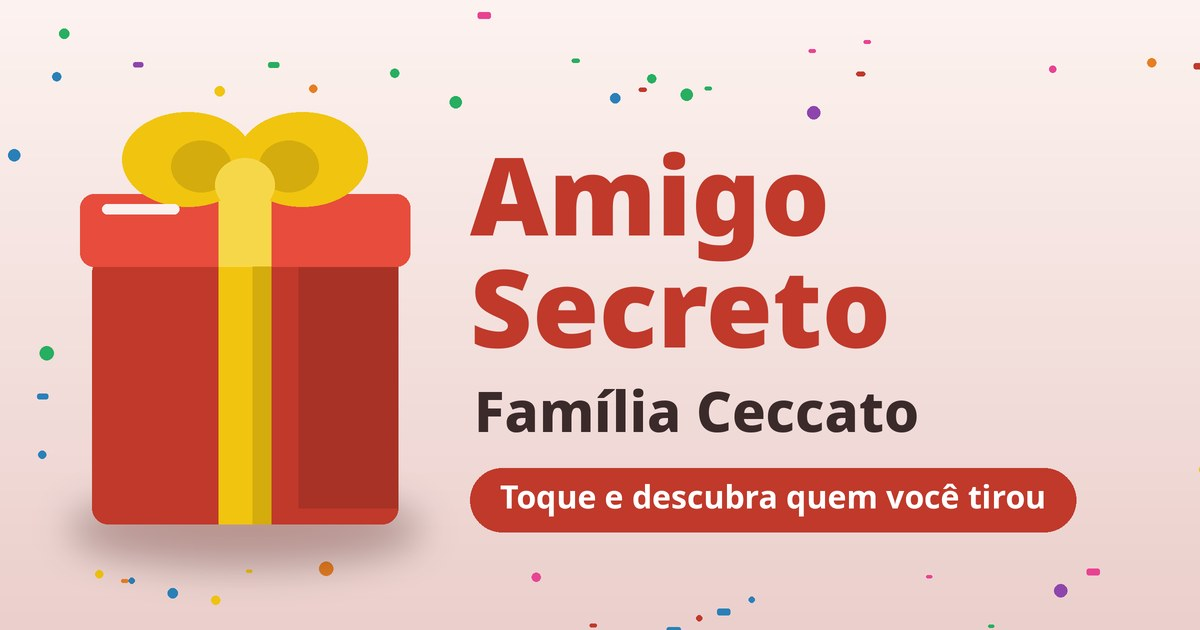
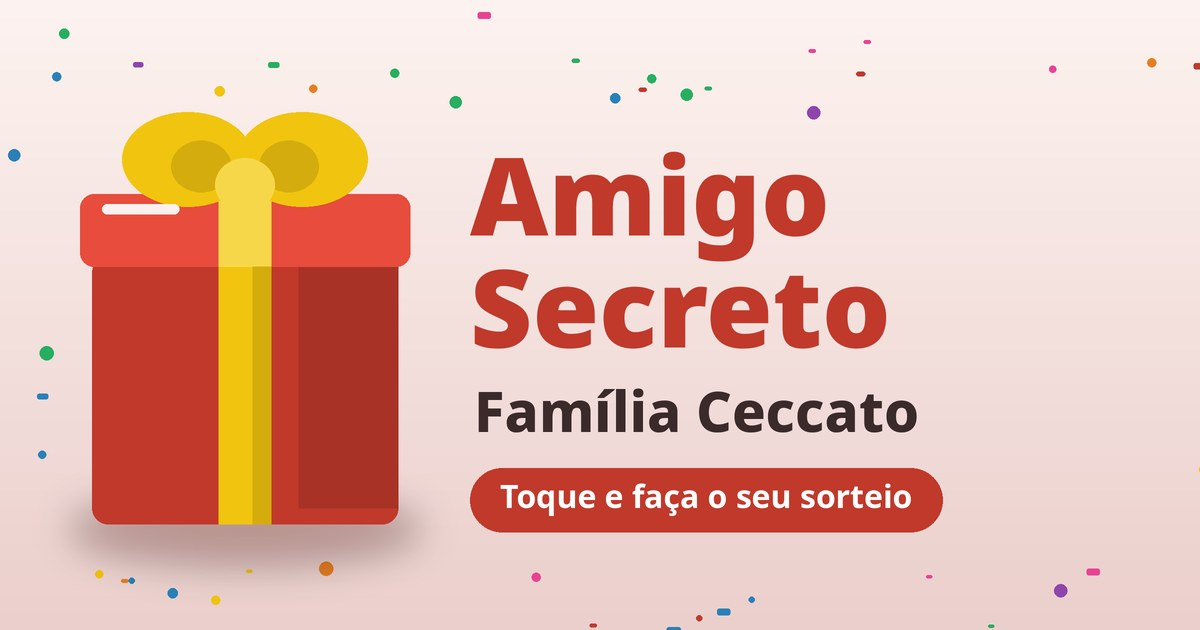
Prévia do link convida a fazer o sorteio

Changed region(s): [[0.4317, 0.7238, 0.8942, 0.8444]]

diff --git a/reveal.html b/reveal.html
@@ -11,7 +11,7 @@
 <meta property="og:type" content="website">
 <meta property="og:site_name" content="Amigo Secreto">
 <meta property="og:title" content="🎁 Amigo Secreto Família Ceccato">
-<meta property="og:description" content="O sorteio foi feito! Toque e descubra quem você tirou.">
+<meta property="og:description" content="Chegou a hora! Toque e faça o seu sorteio.">
 <meta property="og:url" content="https://phceccato.github.io/amigo-secreto/reveal.html">
 <meta property="og:image" content="https://phceccato.github.io/amigo-secreto/capa.jpg">
 <meta property="og:image:secure_url" content="https://phceccato.github.io/amigo-secreto/capa.jpg">
